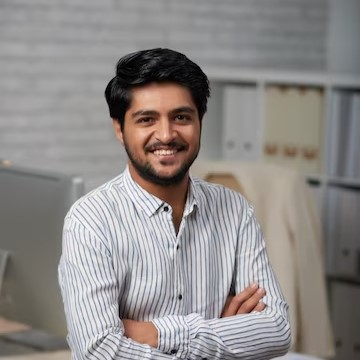
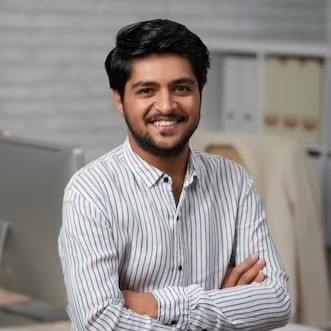
code update

diff --git a/class7.html b/class7.html
@@ -218,23 +218,23 @@
                         <div class="custom-block custom-block-profile-front custom-block-profile text-center bg-white border">
                           <h6 class="text-start">Class Teacher</h6>
                           <div class="custom-block-profile-image-wrap mb-4">
-                            <img src="images/profile/white.jpg" class="custom-block-profile-image img-fluid" alt="profile pic">
+                            <img src="images/profile/black.jpg" class="custom-block-profile-image img-fluid" alt="profile pic">
                             <a href="#!" class="bi-eye custom-block-edit-icon"></a>
                           </div>
                           <p class="d-flex flex-wrap mb-2">
                             <strong>Name:</strong>
-                            <span>Keerthy S</span>
+                            <span>Anjali S</span>
                           </p>
                           <p class="d-flex flex-wrap mb-2">
                             <strong>Email:</strong>
                             <a href="#!">
-                              keerthy.s@dpstpt.com
+                              anjali.s@apstpt.com
                             </a>
                           </p>
                           <p class="d-flex flex-wrap mb-0">
                             <strong>Phone:</strong>
                             <a href="#!">
-                              +91 90001 00023
+                              +91 90001 00045
                             </a>
                           </p>
                         </div>

diff --git a/class8.html b/class8.html
@@ -218,23 +218,23 @@
                         <div class="custom-block custom-block-profile-front custom-block-profile text-center bg-white border">
                           <h6 class="text-start">Class Teacher</h6>
                           <div class="custom-block-profile-image-wrap mb-4">
-                            <img src="images/profile/white.jpg" class="custom-block-profile-image img-fluid" alt="profile pic">
+                            <img src="images/profile/yellow2.jpg" class="custom-block-profile-image img-fluid" alt="profile pic">
                             <a href="#!" class="bi-eye custom-block-edit-icon"></a>
                           </div>
                           <p class="d-flex flex-wrap mb-2">
                             <strong>Name:</strong>
-                            <span>Keerthy S</span>
+                            <span>Ramya P</span>
                           </p>
                           <p class="d-flex flex-wrap mb-2">
                             <strong>Email:</strong>
                             <a href="#!">
-                              keerthy.s@dpstpt.com
+                              ramya.p@apstpt.com
                             </a>
                           </p>
                           <p class="d-flex flex-wrap mb-0">
                             <strong>Phone:</strong>
                             <a href="#!">
-                              +91 90001 00023
+                              +91 90001 00034
                             </a>
                           </p>
                         </div>

diff --git a/class6.html b/class6.html
@@ -218,23 +218,23 @@
                         <div class="custom-block custom-block-profile-front custom-block-profile text-center bg-white border">
                           <h6 class="text-start">Class Teacher</h6>
                           <div class="custom-block-profile-image-wrap mb-4">
-                            <img src="images/profile/white.jpg" class="custom-block-profile-image img-fluid" alt="profile pic">
+                            <img src="images/profile/gray.jpg" class="custom-block-profile-image img-fluid" alt="profile pic">
                             <a href="#!" class="bi-eye custom-block-edit-icon"></a>
                           </div>
                           <p class="d-flex flex-wrap mb-2">
                             <strong>Name:</strong>
-                            <span>Keerthy S</span>
+                            <span>Arjun K</span>
                           </p>
                           <p class="d-flex flex-wrap mb-2">
                             <strong>Email:</strong>
                             <a href="#!">
-                              keerthy.s@dpstpt.com
+                              arjun.k@apstpt.com
                             </a>
                           </p>
                           <p class="d-flex flex-wrap mb-0">
                             <strong>Phone:</strong>
                             <a href="#!">
-                              +91 90001 00023
+                              +91 90001 00056
                             </a>
                           </p>
                         </div>

diff --git a/class9.html b/class9.html
@@ -218,17 +218,17 @@
                         <div class="custom-block custom-block-profile-front custom-block-profile text-center bg-white border">
                           <h6 class="text-start">Class Teacher</h6>
                           <div class="custom-block-profile-image-wrap mb-4">
-                            <img src="images/profile/white.jpg" class="custom-block-profile-image img-fluid" alt="profile pic">
+                            <img src="images/profile/ivory.jpg" class="custom-block-profile-image img-fluid" alt="profile pic">
                             <a href="#!" class="bi-eye custom-block-edit-icon"></a>
                           </div>
                           <p class="d-flex flex-wrap mb-2">
                             <strong>Name:</strong>
-                            <span>Keerthy S</span>
+                            <span>Sree Ram C</span>
                           </p>
                           <p class="d-flex flex-wrap mb-2">
                             <strong>Email:</strong>
                             <a href="#!">
-                              keerthy.s@dpstpt.com
+                              sreeram@apstpt.com
                             </a>
                           </p>
                           <p class="d-flex flex-wrap mb-0">

diff --git a/class10.html b/class10.html
@@ -228,13 +228,13 @@
                           <p class="d-flex flex-wrap mb-2">
                             <strong>Email:</strong>
                             <a href="#!">
-                              keerthy.s@dpstpt.com
+                              keerthy.s@apstpt.com
                             </a>
                           </p>
                           <p class="d-flex flex-wrap mb-0">
                             <strong>Phone:</strong>
                             <a href="#!">
-                              +91 90001 00023
+                              +91 90001 00012
                             </a>
                           </p>
                         </div>
